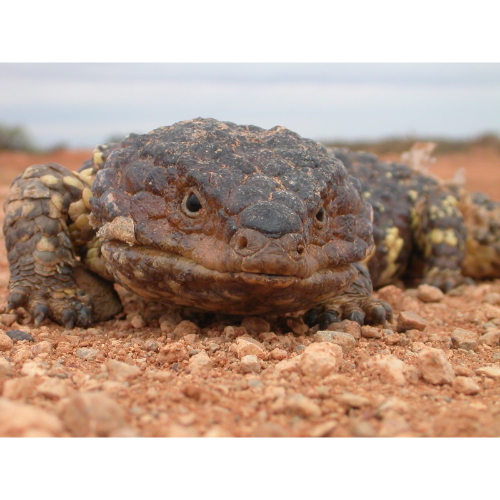
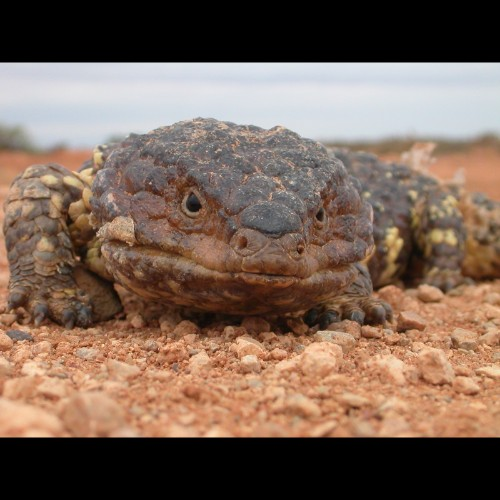
Performance enhancing
Extension changed for images, also resized and added padding for images out of line with gallery.

Changed region(s): [[0.0, 0.87, 1.0, 1.0], [0.0, 0.0, 1.0, 0.15]]

diff --git a/V2/index.html b/V2/index.html
@@ -118,10 +118,10 @@
             <img class="galleryImage" src="src/gallery/Aboriginal_artefact_Far_Western_NSW.jpg" data-toggle="modal" data-target="#galleryModal" alt="Aboriginal artefact Far Western NSW">
             <img class="galleryImage" src="src/gallery/Aboriginal_artefacts_Far_Western_NSW.jpg" data-toggle="modal" data-target="#galleryModal" alt="Aboriginal artefacts Far Western NSW">
             <img class="galleryImage" src="src/gallery/Aboriginal_Cultural_burning_Cape_York_Qld.jpg" data-toggle="modal" data-target="#galleryModal" alt="Aboriginal Cultural burning Cape York Qld">
-            <img class="galleryImage" src="src/gallery/Aboriginal_Culturally_Modified_Tree_(Carved)_Central_West_NSW_1.JPG" data-toggle="modal" data-target="#galleryModal" alt="Aboriginal Culturally Modified Tree (Carved) Central West NSW #1">
-            <img class="galleryImage" src="src/gallery/Aboriginal_Culturally_Modified_Tree_Central_West_NSW_1.JPG" data-toggle="modal" data-target="#galleryModal" alt="Aboriginal Culturally Modified Tree Central West NSW #1">
-            <img class="galleryImage" src="src/gallery/Aboriginal_Culturally_Modified_Tree_Central_West_NSW_2.JPG" data-toggle="modal" data-target="#galleryModal" alt="Aboriginal Culturally Modified Tree Central West NSW #2">
-            <img class="galleryImage" src="src/gallery/Aboriginal_Culturally_Modified_Tree_Northwestern_NSW.JPG" data-toggle="modal" data-target="#galleryModal" alt="Aboriginal Culturally Modified Tree Northwestern NSW">
+            <img class="galleryImage" src="src/gallery/Aboriginal_Culturally_Modified_Tree_(Carved)_Central_West_NSW_1.jpg" data-toggle="modal" data-target="#galleryModal" alt="Aboriginal Culturally Modified Tree (Carved) Central West NSW #1">
+            <img class="galleryImage" src="src/gallery/Aboriginal_Culturally_Modified_Tree_Central_West_NSW_1.jpg" data-toggle="modal" data-target="#galleryModal" alt="Aboriginal Culturally Modified Tree Central West NSW #1">
+            <img class="galleryImage" src="src/gallery/Aboriginal_Culturally_Modified_Tree_Central_West_NSW_2.jpg" data-toggle="modal" data-target="#galleryModal" alt="Aboriginal Culturally Modified Tree Central West NSW #2">
+            <img class="galleryImage" src="src/gallery/Aboriginal_Culturally_Modified_Tree_Northwestern_NSW.jpg" data-toggle="modal" data-target="#galleryModal" alt="Aboriginal Culturally Modified Tree Northwestern NSW">
             <img class="galleryImage" src="src/gallery/Aboriginal_deflated_ground_oven_Far_Western_NSW.jpg" data-toggle="modal" data-target="#galleryModal" alt="Aboriginal deflated ground oven Far Western NSW">
             <img class="galleryImage" src="src/gallery/Aboriginal_stone_tool_artefact_SA.jpg" data-toggle="modal" data-target="#galleryModal" alt="Aboriginal stone tool artefact SA">
             <img class="galleryImage" src="src/gallery/Australian_bustard_(Ardeotis_australis)_Gulf_Plains_Qld.jpg" data-toggle="modal" data-target="#galleryModal" alt="Australian bustard (Ardeotis australis) Gulf Plains Qld">
@@ -131,29 +131,29 @@
             <img class="galleryImage" src="src/gallery/Barrier_Range_Dragon_(Ctenophorus_mirrityana)_Purnamoota_Station_Broken_Hill_NSW_Male_with_Female.jpg" data-toggle="modal" data-target="#galleryModal" alt="Barrier Range Dragon (Ctenophorus mirrityana) Purnamoota Station Broken Hill NSW Male with Female">
             <img class="galleryImage" src="src/gallery/Barrier_Ranges_Broken_Hill_NSW_(old_mine_site).jpg" data-toggle="modal" data-target="#galleryModal" alt="Barrier Ranges Broken Hill NSW (old mine site)">
             <img class="galleryImage" src="src/gallery/Black-headed_Monitor_(Varanus_tristis)_Mutuwintji_NP_NSW.jpg" data-toggle="modal" data-target="#galleryModal" alt="Black-headed Monitor (Varanus tristis) Mutuwintji NP NSW">
-            <img class="galleryImage" src="src/gallery/Black-necked_stork_(Ephippiorhynchus_asiaticus)_Cape_York_Qld.JPG" data-toggle="modal" data-target="#galleryModal" alt="Black-necked stork (Ephippiorhynchus asiaticus) Cape York Qld">
-            <img class="galleryImage" src="src/gallery/Black_Box_Woodland_Northwestern_NSW.JPG" data-toggle="modal" data-target="#galleryModal" alt="Black Box Woodland Northwestern NSW">
-            <img class="galleryImage" src="src/gallery/Brigalow_Woodland_Nortwestern_NSW.JPG" data-toggle="modal" data-target="#galleryModal" alt="Brigalow Woodland Nortwestern NSW">
-            <img class="galleryImage" src="src/gallery/Brolga_(Antigone_rubicunda)_flock_Gulf_Plains_Qld.JPG" data-toggle="modal" data-target="#galleryModal" alt="Brolga (Antigone rubicunda) flock Gulf Plains Qld">
-            <img class="galleryImage" src="src/gallery/Brolga_(Antigone_rubicunda)_Gulf_Plains_Qld.JPG" data-toggle="modal" data-target="#galleryModal" alt="Brolga (Antigone rubicunda) Gulf Plains Qld">
+            <img class="galleryImage" src="src/gallery/Black-necked_stork_(Ephippiorhynchus_asiaticus)_Cape_York_Qld.jpg" data-toggle="modal" data-target="#galleryModal" alt="Black-necked stork (Ephippiorhynchus asiaticus) Cape York Qld">
+            <img class="galleryImage" src="src/gallery/Black_Box_Woodland_Northwestern_NSW.jpg" data-toggle="modal" data-target="#galleryModal" alt="Black Box Woodland Northwestern NSW">
+            <img class="galleryImage" src="src/gallery/Brigalow_Woodland_Nortwestern_NSW.jpg" data-toggle="modal" data-target="#galleryModal" alt="Brigalow Woodland Nortwestern NSW">
+            <img class="galleryImage" src="src/gallery/Brolga_(Antigone_rubicunda)_flock_Gulf_Plains_Qld.jpg" data-toggle="modal" data-target="#galleryModal" alt="Brolga (Antigone rubicunda) flock Gulf Plains Qld">
+            <img class="galleryImage" src="src/gallery/Brolga_(Antigone_rubicunda)_Gulf_Plains_Qld.jpg" data-toggle="modal" data-target="#galleryModal" alt="Brolga (Antigone rubicunda) Gulf Plains Qld">
             <img class="galleryImage" src="src/gallery/Budgee_Mutawintji_NP_NSW.jpg" data-toggle="modal" data-target="#galleryModal" alt="Budgee Mutawintji NP NSW">
             <img class="galleryImage" src="src/gallery/Bush-stone_Curlew_(Burhinus_grallarius)_Wet_tropics_FN_Qld.jpg" data-toggle="modal" data-target="#galleryModal" alt="Bush-stone Curlew (Burhinus grallarius) Wet tropics FN Qld">
             <img class="galleryImage" src="src/gallery/Bush-stone_Curlew_(Burhinus_grallarius)_Wet_tropics_FN_Qld_(2).jpg" data-toggle="modal" data-target="#galleryModal" alt="Bush-stone Curlew (Burhinus grallarius) Wet tropics FN Qld (2)">
-            <img class="galleryImage" src="src/gallery/Cape_Barren_goose_(Cereopsis_novaehollandiae)_Flinders_Island.JPG" data-toggle="modal" data-target="#galleryModal" alt="Cape Barren goose (Cereopsis novaehollandiae) Flinders Island">
+            <img class="galleryImage" src="src/gallery/Cape_Barren_goose_(Cereopsis_novaehollandiae)_Flinders_Island.jpg" data-toggle="modal" data-target="#galleryModal" alt="Cape Barren goose (Cereopsis novaehollandiae) Flinders Island">
             <img class="galleryImage" src="src/gallery/Central_Netted_Dragon_(Ctenophorus_nuchalis)_Barrier_Range_NSW.jpg" data-toggle="modal" data-target="#galleryModal" alt="Central Netted Dragon (Ctenophorus nuchalis) Barrier Range NSW">
             <img class="galleryImage" src="src/gallery/Centralian_Ranges_Rock-skink_(Liopholis_whitii)_-_endangered_population_Mutawintji_NP_NSW.jpg" data-toggle="modal" data-target="#galleryModal" alt="Centralian Ranges Rock-skink (Liopholis whitii) - endangered population Mutawintji NP NSW">
             <img class="galleryImage" src="src/gallery/Curly-bark_Wattle_(Acacia_curranii)_Central_NSW.jpg" data-toggle="modal" data-target="#galleryModal" alt="Curly-bark Wattle (Acacia curranii) Central NSW">
             <img class="galleryImage" src="src/gallery/Emu_nest_Sturt_Desert_NP_NSW.jpg" data-toggle="modal" data-target="#galleryModal" alt="Emu nest Sturt Desert NP NSW">
             <img class="galleryImage" src="src/gallery/fat-tailed_dunnart_(Sminthopsis_crassicaudata)_Central_Western_NSW.jpg" data-toggle="modal" data-target="#galleryModal" alt="fat-tailed dunnart (Sminthopsis crassicaudata) Central Western NSW">
             <img class="galleryImage" src="src/gallery/Flame_Spider_Flower_(Grevillea_kennedyana)_habitat_Sturt_NP_NSW.jpg" data-toggle="modal" data-target="#galleryModal" alt="Flame Spider Flower (Grevillea kennedyana) habitat Sturt NP NSW">
-            <img class="galleryImage" src="src/gallery/Flame_Spider_Flower_(Grevillea_kennedyana)_Sturts_NP_NSW.JPG" data-toggle="modal" data-target="#galleryModal" alt="Flame Spider Flower (Grevillea kennedyana) Sturts NP NSW">
-            <img class="galleryImage" src="src/gallery/Flinders_Island_Tasmania.JPG" data-toggle="modal" data-target="#galleryModal" alt="Flinders Island Tasmania">
-            <img class="galleryImage" src="src/gallery/Freshwater_crocodile_(Crocodylus_johnstoni)_2_Gulf_Plains_Qld.JPG" data-toggle="modal" data-target="#galleryModal" alt="Freshwater crocodile (Crocodylus johnstoni) #2 Gulf Plains Qld">
+            <img class="galleryImage" src="src/gallery/Flame_Spider_Flower_(Grevillea_kennedyana)_Sturts_NP_NSW.jpg" data-toggle="modal" data-target="#galleryModal" alt="Flame Spider Flower (Grevillea kennedyana) Sturts NP NSW">
+            <img class="galleryImage" src="src/gallery/Flinders_Island_Tasmania.jpg" data-toggle="modal" data-target="#galleryModal" alt="Flinders Island Tasmania">
+            <img class="galleryImage" src="src/gallery/Freshwater_crocodile_(Crocodylus_johnstoni)_2_Gulf_Plains_Qld.jpg" data-toggle="modal" data-target="#galleryModal" alt="Freshwater crocodile (Crocodylus johnstoni) #2 Gulf Plains Qld">
             <img class="galleryImage" src="src/gallery/Freshwater_crocodile_(Crocodylus_johnstoni)_Cape_York.jpg" data-toggle="modal" data-target="#galleryModal" alt="Freshwater crocodile (Crocodylus johnstoni) Cape York">
             <img class="galleryImage" src="src/gallery/Golden-tipped_Bat_(Phoniscus_papuensis)_Cape_York_Qld.jpg" data-toggle="modal" data-target="#galleryModal" alt="Golden-tipped Bat (Phoniscus papuensis) Cape York Qld">
             <img class="galleryImage" src="src/gallery/Historic_mining_relics_Far_Western_NSW.jpg" data-toggle="modal" data-target="#galleryModal" alt="Historic mining relics Far Western NSW">
-            <img class="galleryImage" src="src/gallery/Hounbrook_Rainforest_Northern_NSW_Red-eyed_tree_frog_(Litoria_chloris).JPG" data-toggle="modal" data-target="#galleryModal" alt="Hounbrook Rainforest Northern NSW. Red-eyed tree frog (Litoria chloris)">
-            <img class="galleryImage" src="src/gallery/Hounbrook_Rainforest_Northern_NSW_Rehabilitation_in_progress.JPG" data-toggle="modal" data-target="#galleryModal" alt="Hounbrook Rainforest Northern NSW. Rehabilitation in progress">
+            <img class="galleryImage" src="src/gallery/Hounbrook_Rainforest_Northern_NSW_Red-eyed_tree_frog_(Litoria_chloris).jpg" data-toggle="modal" data-target="#galleryModal" alt="Hounbrook Rainforest Northern NSW. Red-eyed tree frog (Litoria chloris)">
+            <img class="galleryImage" src="src/gallery/Hounbrook_Rainforest_Northern_NSW_Rehabilitation_in_progress.jpg" data-toggle="modal" data-target="#galleryModal" alt="Hounbrook Rainforest Northern NSW. Rehabilitation in progress">
             <img class="galleryImage" src="src/gallery/Hounbrook_Rainforest_Northern_NSW.jpg" data-toggle="modal" data-target="#galleryModal" alt="Hounbrook Rainforest Northern NSW">
             <img class="galleryImage" src="src/gallery/Inverleigh_WW2_aerdrome_fuel_drums_Gulf_Plains_Qld.jpg" data-toggle="modal" data-target="#galleryModal" alt=" Inverleigh WW2 aerdrome fuel drums. Gulf Plains Qld">
             <img class="galleryImage" src="src/gallery/Inverleigh_WW2_aerdrome_machine_gun_pit_Gulf_Plains_Qld.jpg" data-toggle="modal" data-target="#galleryModal" alt="Inverleigh WW2 aerdrome machine gun pit. Gulf Plains Qld">
@@ -171,17 +171,17 @@
             <img class="galleryImage" src="src/gallery/Panaramitee_Aboriginal_art_Far_Western_NSW.jpg" data-toggle="modal" data-target="#galleryModal" alt="Panaramitee Aboriginal art Far Western NSW">
             <img class="galleryImage" src="src/gallery/Pine_Donkey_Orchid_(Diuris_tricolor)_Central_Western_NSW.jpg" data-toggle="modal" data-target="#galleryModal" alt="Pine Donkey Orchid (Diuris tricolor). Central Western NSW">
             <img class="galleryImage" src="src/gallery/Platypus_(Ornithorhynchus_anatinus)_South_Western_Slopes_NSW.jpg" data-toggle="modal" data-target="#galleryModal" alt="Platypus (Ornithorhynchus anatinus). South Western Slopes NSW.">
-            <img class="galleryImage" src="src/gallery/Poplar_Box_Woodland_Northwestern_NSW.JPG" data-toggle="modal" data-target="#galleryModal" alt="Poplar Box Woodland Northwestern NSW">
+            <img class="galleryImage" src="src/gallery/Poplar_Box_Woodland_Northwestern_NSW.jpg" data-toggle="modal" data-target="#galleryModal" alt="Poplar Box Woodland Northwestern NSW">
             <img class="galleryImage" src="src/gallery/Purplewood_wattle_(Acacia_carneorum)_V_NSW_Broken_Hill.jpg" data-toggle="modal" data-target="#galleryModal" alt="Purplewood wattle (Acacia carneorum) V NSW Broken Hill">
             <img class="galleryImage" src="src/gallery/Purplewood_wattle_(Acacia_carneorum)_VNSW_Broken_Hill.jpg" data-toggle="modal" data-target="#galleryModal" alt=" Purplewood wattle (Acacia carneorum) VNSW Broken Hill">
-            <img class="galleryImage" src="src/gallery/Rainbow-_bee-eater_(Merops_ornatus)_Burketown_Gulf_Plains_Qld.JPG" data-toggle="modal" data-target="#galleryModal" alt="Rainbow- bee-eater (Merops ornatus). Burketown Gulf Plains Qld.">
-            <img class="galleryImage" src="src/gallery/Red_Kangaroo_(Macropus_rufus)_Western_NSW.JPG" data-toggle="modal" data-target="#galleryModal" alt="Red Kangaroo (Macropus rufus). Western NSW.">
-            <img class="galleryImage" src="src/gallery/Sarus_crane_(Antigone_antigone)_Gulf_Plains.JPG" data-toggle="modal" data-target="#galleryModal" alt="Sarus crane (Antigone antigone) Gulf Plains">
-            <img class="galleryImage" src="src/gallery/Sarus_crane_(Antigone_antigone)_Gulf_Plains_(2).JPG" data-toggle="modal" data-target="#galleryModal" alt="Sarus crane (Antigone antigone) Gulf Plains (2)">
+            <img class="galleryImage" src="src/gallery/Rainbow-_bee-eater_(Merops_ornatus)_Burketown_Gulf_Plains_Qld.jpg" data-toggle="modal" data-target="#galleryModal" alt="Rainbow- bee-eater (Merops ornatus). Burketown Gulf Plains Qld.">
+            <img class="galleryImage" src="src/gallery/Red_Kangaroo_(Macropus_rufus)_Western_NSW.jpg" data-toggle="modal" data-target="#galleryModal" alt="Red Kangaroo (Macropus rufus). Western NSW.">
+            <img class="galleryImage" src="src/gallery/Sarus_crane_(Antigone_antigone)_Gulf_Plains.jpg" data-toggle="modal" data-target="#galleryModal" alt="Sarus crane (Antigone antigone) Gulf Plains">
+            <img class="galleryImage" src="src/gallery/Sarus_crane_(Antigone_antigone)_Gulf_Plains_(2).jpg" data-toggle="modal" data-target="#galleryModal" alt="Sarus crane (Antigone antigone) Gulf Plains (2)">
             <img class="galleryImage" src="src/gallery/Shinglebacked_lizard_(Tiliqua_rugosa)_Far_Western_NSW.jpg" data-toggle="modal" data-target="#galleryModal" alt=" Shinglebacked lizard (Tiliqua rugosa) Far Western NSW">
-            <img class="galleryImage" src="src/gallery/Silver_Indigo_(Indigofera_leucotricha)_flower_Far_Westrn_NSW.JPG" data-toggle="modal" data-target="#galleryModal" alt="Silver Indigo (Indigofera leucotricha) flower. Far Westrn NSW">
-            <img class="galleryImage" src="src/gallery/Silver_Indigo_(Indigofera_leucotricha)_habitat_Far_Western_NSW.JPG" data-toggle="modal" data-target="#galleryModal" alt="Silver Indigo (Indigofera leucotricha) habitat. Far Western NSW">
-            <img class="galleryImage" src="src/gallery/Silver_Indigo_(Indigofera_leucotricha)_pods_Far_Western_NSW.JPG" data-toggle="modal" data-target="#galleryModal" alt="Silver Indigo (Indigofera leucotricha) pods. Far Western NSW">
+            <img class="galleryImage" src="src/gallery/Silver_Indigo_(Indigofera_leucotricha)_flower_Far_Westrn_NSW.jpg" data-toggle="modal" data-target="#galleryModal" alt="Silver Indigo (Indigofera leucotricha) flower. Far Westrn NSW">
+            <img class="galleryImage" src="src/gallery/Silver_Indigo_(Indigofera_leucotricha)_habitat_Far_Western_NSW.jpg" data-toggle="modal" data-target="#galleryModal" alt="Silver Indigo (Indigofera leucotricha) habitat. Far Western NSW">
+            <img class="galleryImage" src="src/gallery/Silver_Indigo_(Indigofera_leucotricha)_pods_Far_Western_NSW.jpg" data-toggle="modal" data-target="#galleryModal" alt="Silver Indigo (Indigofera leucotricha) pods. Far Western NSW">
             <img class="galleryImage" src="src/gallery/Southern_cassowary_(Casuarius_casuarius_johnsonii)_Iron_Range_NP_Far_North_Qld.jpg" data-toggle="modal" data-target="#galleryModal" alt="Southern cassowary (Casuarius casuarius johnsonii). Iron Range NP Far North Qld">
             <img class="galleryImage" src="src/gallery/Spotted_cuscus_(Spilocuscus_maculatus)_Iron_Range_NP_Far_North_Qld.jpg" data-toggle="modal" data-target="#galleryModal" alt="Spotted cuscus (Spilocuscus maculatus) Iron Range NP Far North Qld">
             <img class="galleryImage" src="src/gallery/Steam_tractor_Far_Wesdt_NSW.jpg" data-toggle="modal" data-target="#galleryModal" alt="Steam tractor Far West NSW">
@@ -189,14 +189,14 @@
             <img class="galleryImage" src="src/gallery/Sturt_Desert_NP_NSW_2.jpg" data-toggle="modal" data-target="#galleryModal" alt="Sturt Desert NP NSW #2">
             <img class="galleryImage" src="src/gallery/Sturts_Pea_(Swainsona_formosa)_Far_Western_NSW.jpg" data-toggle="modal" data-target="#galleryModal" alt="Sturts Pea (Swainsona formosa) Far Western NSW">
             <img class="galleryImage" src="src/gallery/Thick-tailed_Gecko_(Underwoodisaurus_milii)_Far_Western_NSW.jpg" data-toggle="modal" data-target="#galleryModal" alt="Thick-tailed Gecko (Underwoodisaurus milii) Far Western NSW">
-            <img class="galleryImage" src="src/gallery/Victorian_Alps.JPG" data-toggle="modal" data-target="#galleryModal" alt="Victorian Alps">
-            <img class="galleryImage" src="src/gallery/Victorian_Alps_2.JPG" data-toggle="modal" data-target="#galleryModal" alt="Victorian Alps #2">
-            <img class="galleryImage" src="src/gallery/Victorian_Alps_3.JPG" data-toggle="modal" data-target="#galleryModal" alt="Victorian Alps #3">
-            <img class="galleryImage" src="src/gallery/Warratah_(Telopea_speciosissima)_Newnes_Plateau_NSW.JPG" data-toggle="modal" data-target="#galleryModal" alt="Warratah (Telopea speciosissima). Newnes Plateau NSW">
-            <img class="galleryImage" src="src/gallery/Wedge-tailed_Eagle_Sturt_Desert_NP_NSW.JPG" data-toggle="modal" data-target="#galleryModal" alt="Wedge-tailed Eagle Sturt Desert NP NSW">
+            <img class="galleryImage" src="src/gallery/Victorian_Alps.jpg" data-toggle="modal" data-target="#galleryModal" alt="Victorian Alps">
+            <img class="galleryImage" src="src/gallery/Victorian_Alps_2.jpg" data-toggle="modal" data-target="#galleryModal" alt="Victorian Alps #2">
+            <img class="galleryImage" src="src/gallery/Victorian_Alps_3.jpg" data-toggle="modal" data-target="#galleryModal" alt="Victorian Alps #3">
+            <img class="galleryImage" src="src/gallery/Warratah_(Telopea_speciosissima)_Newnes_Plateau_NSW.jpg" data-toggle="modal" data-target="#galleryModal" alt="Warratah (Telopea speciosissima). Newnes Plateau NSW">
+            <img class="galleryImage" src="src/gallery/Wedge-tailed_Eagle_Sturt_Desert_NP_NSW.jpg" data-toggle="modal" data-target="#galleryModal" alt="Wedge-tailed Eagle Sturt Desert NP NSW">
             <img class="galleryImage" src="src/gallery/Wedge_Leaflet_Fan_Palm_(Licuala_ramsayi)_Wet_Tropics_Far_North_Qld.jpg" data-toggle="modal" data-target="#galleryModal" alt="Wedge Leaflet Fan Palm (Licuala ramsayi) Wet Tropics Far North Qld">
-            <img class="galleryImage" src="src/gallery/Weeping_Paperbark_(Melaleuca_irbyana)_Endangered_NSW_Grafton_NSW.JPG" data-toggle="modal" data-target="#galleryModal" alt="Weeping Paperbark (Melaleuca irbyana) Endangered NSW. Grafton NSW">
-            <img class="galleryImage" src="src/gallery/yellow-footed_antechinus_(Antechinus_flavipes)_Central_Western_NSW.JPG" data-toggle="modal" data-target="#galleryModal" alt="yellow-footed antechinus (Antechinus flavipes). Central Western NSW">
+            <img class="galleryImage" src="src/gallery/Weeping_Paperbark_(Melaleuca_irbyana)_Endangered_NSW_Grafton_NSW.jpg" data-toggle="modal" data-target="#galleryModal" alt="Weeping Paperbark (Melaleuca irbyana) Endangered NSW. Grafton NSW">
+            <img class="galleryImage" src="src/gallery/yellow-footed_antechinus_(Antechinus_flavipes)_Central_Western_NSW.jpg" data-toggle="modal" data-target="#galleryModal" alt="yellow-footed antechinus (Antechinus flavipes). Central Western NSW">
         </div>
 
         <div class="modal fade" id="galleryModal" tabindex="-1" role="dialog" aria-labelledby="galleryModalLabel" aria-hidden="true">
